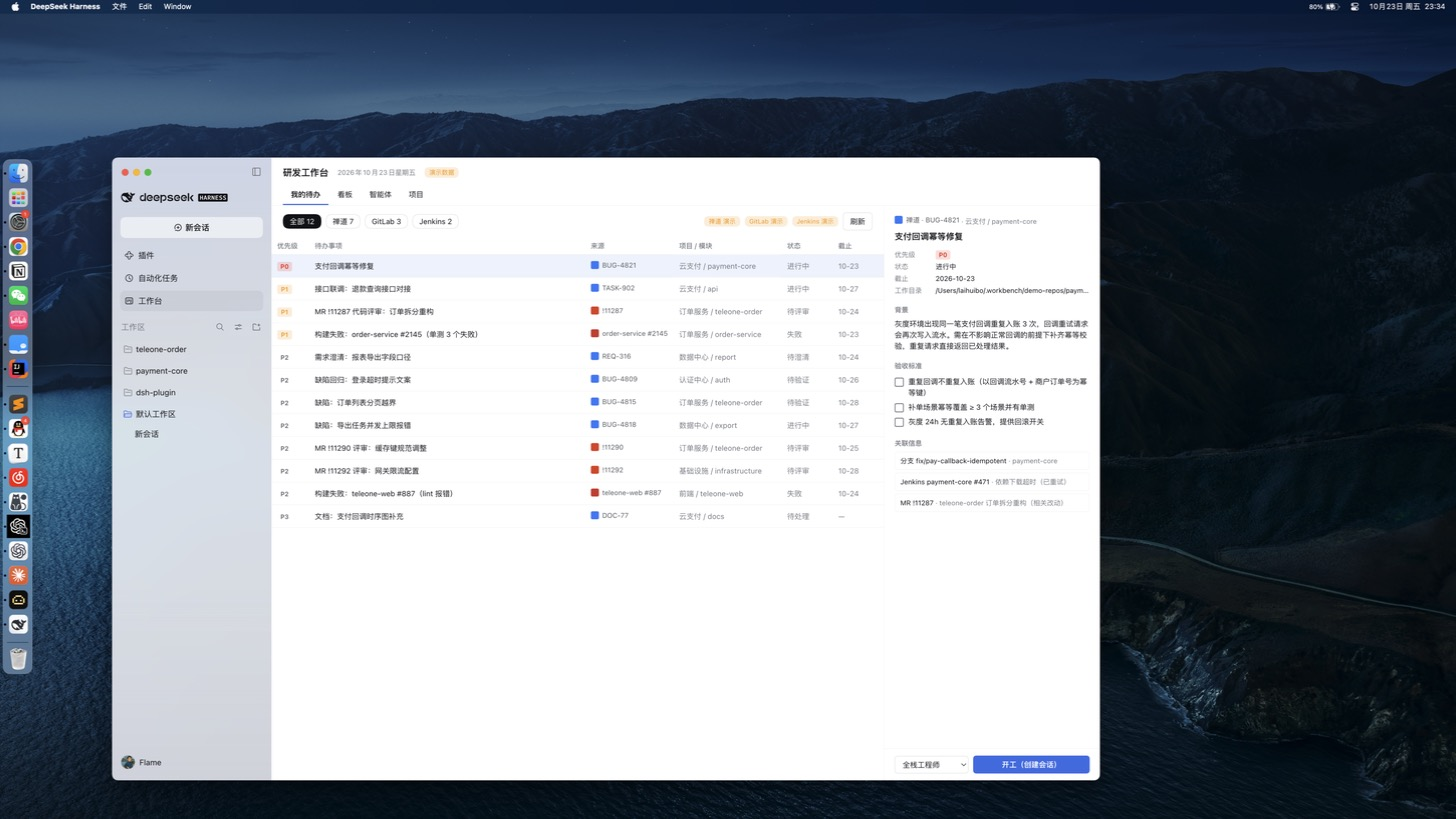
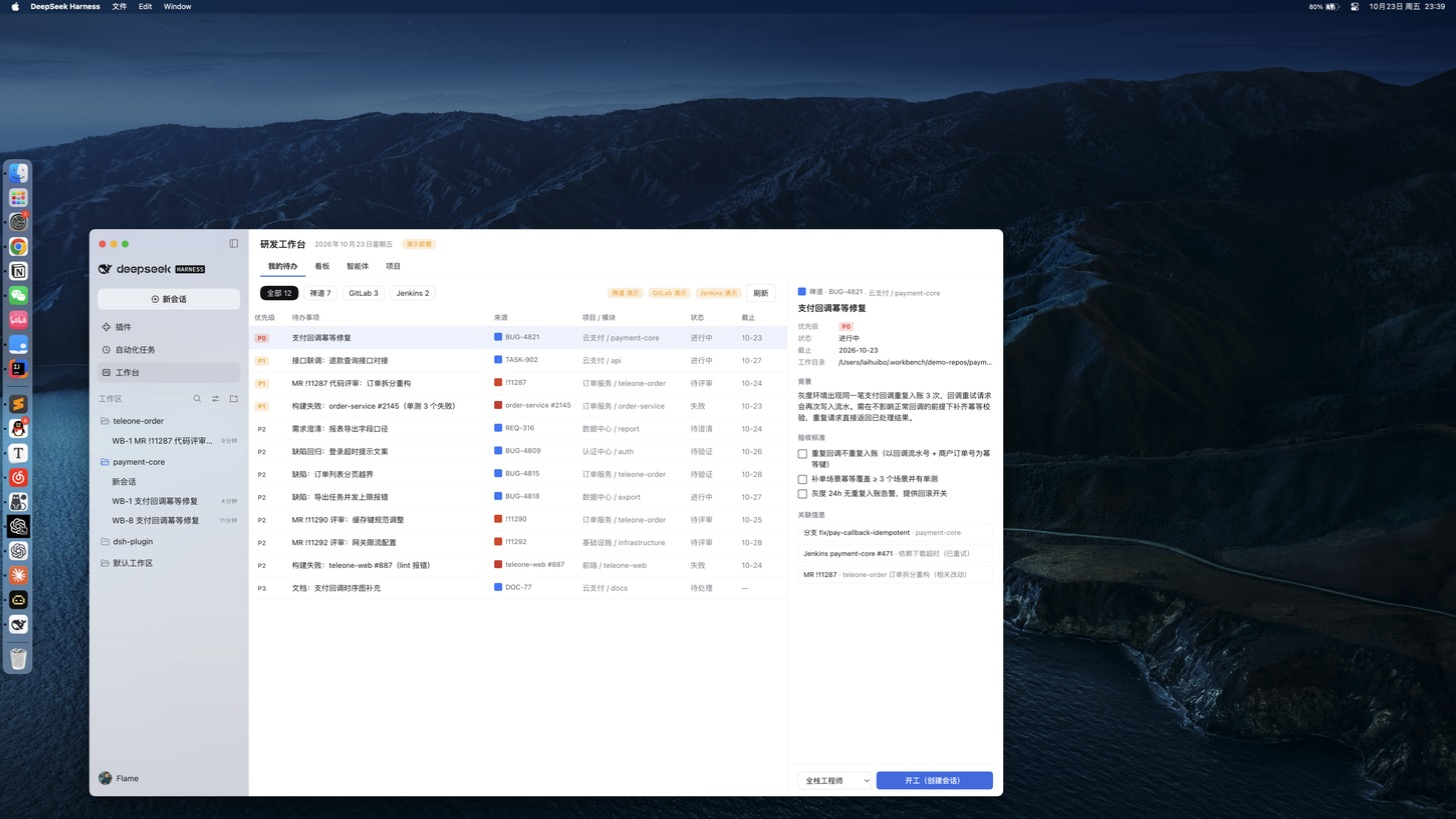
演示走查截图（docs/demo）与看板列宽调整

Changed region(s): [[0.0618, 0.1832, 0.7727, 0.9768], [0.4636, 0.7021, 0.4945, 0.7326]]

diff --git a/ui/styles.ts b/ui/styles.ts
@@ -49,7 +49,7 @@ export const css = `
 .wb-ac { list-style: none; margin: 0; padding: 0; } .wb-ac li { display: flex; gap: 8px; padding: 3px 0; } .wb-ac li::before { content: ''; flex: none; width: 13px; height: 13px; margin-top: 3px; border: 1.5px solid var(--wb-fg3); border-radius: 3px; }
 .wb-rel { padding: 6px 9px; border: 1px solid var(--wb-bd1); border-radius: 7px; background: var(--wb-bg); margin-bottom: 5px; font-size: 12px; }
 .wb-board { display: flex; gap: 12px; padding: 14px 20px; height: 100%; align-items: stretch; overflow-x: auto; }
-.wb-col { flex: 1 0 210px; min-width: 210px; background: var(--wb-l1); border-radius: 10px; display: flex; flex-direction: column; min-height: 0; border: 1px solid transparent; }
+.wb-col { flex: 1 0 140px; min-width: 140px; background: var(--wb-l1); border-radius: 10px; display: flex; flex-direction: column; min-height: 0; border: 1px solid transparent; }
 .wb-col.over { border-color: var(--wb-blue); background: color-mix(in srgb, var(--wb-blue) 7%, var(--wb-l1)); }
 .wb-col-h { display: flex; align-items: center; gap: 6px; padding: 10px 12px; font-weight: 600; } .wb-col-h .n { color: var(--wb-fg3); font-weight: 400; margin-right: auto; }
 .wb-dot { width: 8px; height: 8px; border-radius: 50%; border: 2px solid var(--wb-fg3); } .wb-dot.in_progress { border-color: var(--wb-amber); } .wb-dot.in_review { border-color: var(--wb-green); } .wb-dot.done { border-color: var(--wb-blue); background: var(--wb-blue); } .wb-dot.blocked { border-color: var(--wb-red); }

diff --git a/dsh-plugin/client.js b/dsh-plugin/client.js
@@ -100,7 +100,7 @@ var WB = (() => {
 .wb-ac { list-style: none; margin: 0; padding: 0; } .wb-ac li { display: flex; gap: 8px; padding: 3px 0; } .wb-ac li::before { content: ''; flex: none; width: 13px; height: 13px; margin-top: 3px; border: 1.5px solid var(--wb-fg3); border-radius: 3px; }
 .wb-rel { padding: 6px 9px; border: 1px solid var(--wb-bd1); border-radius: 7px; background: var(--wb-bg); margin-bottom: 5px; font-size: 12px; }
 .wb-board { display: flex; gap: 12px; padding: 14px 20px; height: 100%; align-items: stretch; overflow-x: auto; }
-.wb-col { flex: 1 0 210px; min-width: 210px; background: var(--wb-l1); border-radius: 10px; display: flex; flex-direction: column; min-height: 0; border: 1px solid transparent; }
+.wb-col { flex: 1 0 140px; min-width: 140px; background: var(--wb-l1); border-radius: 10px; display: flex; flex-direction: column; min-height: 0; border: 1px solid transparent; }
 .wb-col.over { border-color: var(--wb-blue); background: color-mix(in srgb, var(--wb-blue) 7%, var(--wb-l1)); }
 .wb-col-h { display: flex; align-items: center; gap: 6px; padding: 10px 12px; font-weight: 600; } .wb-col-h .n { color: var(--wb-fg3); font-weight: 400; margin-right: auto; }
 .wb-dot { width: 8px; height: 8px; border-radius: 50%; border: 2px solid var(--wb-fg3); } .wb-dot.in_progress { border-color: var(--wb-amber); } .wb-dot.in_review { border-color: var(--wb-green); } .wb-dot.done { border-color: var(--wb-blue); background: var(--wb-blue); } .wb-dot.blocked { border-color: var(--wb-red); }
